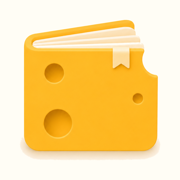
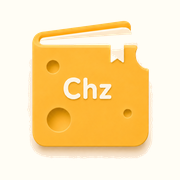
[CHMO-706] feat: 브랜드 로고 자산 최종본 교체 · 홈 워드마크만 Jua
디자인 최종본(Chz 각인 치즈 앨범)으로 자산 3종을 갈아끼운다 — CHMO-702가 넣은
자산은 각인 없는 이전 렌더였다. 경로·파일명·크기를 그대로 둬서 참조 코드는 무변경
(Cheddar 사용처 9곳·favicon·apple-touch-icon).

원본은 흰 여백 + 크림 라운드 타일 + 그림자가 구워진 목업이라, 채도·명도로 배경 후보를
잡고 **테두리에서 연결된 영역만** 지웠다 — 심볼 안쪽 크림(책장·Chz 각인·책갈피)은 갇혀
있어 살아남는다. 남은 타일 테두리 잔상은 중앙에서 연결된 덩어리만 취해 떨궜다.
사용자 지시대로 원본 PNG는 커밋하지 않는다.

apple-touch-icon만 크림 불투명 배경으로 굽는다 — iOS 홈 화면은 투명을 검정으로 깐다.

워드마크 '치즈모아'는 Jua로 되돌린다(CHMO-702의 Pretendard 전환에서 브랜드 표기까지
중립 산세리프가 됐다). 홈형 헤더가 title 없이 워드마크를 그릴 때만 적용 — title을 받은
경우는 화면 이름이라 본문 서체를 유지한다. Jua 요청은 이 한 곳 때문에 1건 늘어난다.

Changed region(s): [[0.1111, 0.1111, 0.8889, 0.8889], [0.2222, 0.5833, 0.4167, 0.7778]]

diff --git a/tailwind.config.js b/tailwind.config.js
@@ -50,6 +50,9 @@ export default {
         // Jua 시절 크기·자간·색으로 벌려 둔 위계(섹션 라벨 12px+자간 등)는 그대로 둔다 —
         // 굵기 축이 생겼다고 되돌릴 이유가 없고, 위계를 굵기로 다시 짜는 건 리디자인 본편 몫.
         sans: ['Pretendard Variable', 'Pretendard', 'system-ui', 'sans-serif'],
+        // 워드마크 전용(CHMO-706) — 헤더 '치즈모아' 한 곳에만 쓴다. 본문에 번지면 CHMO-702가
+        // 걷어낸 둥근 서체가 되살아나므로 사용처를 늘리지 않는다(Jua는 굵기 400 한 벌뿐).
+        logo: ['Jua', 'system-ui', 'sans-serif'],
         // 어드민 전용 중립 서체(CHMO-379) — 표·숫자 위주 화면이라 Jua(둥근 단일 굵기)가 아니라
         // 시스템 산세리프를 쓴다(굵기 위계 사용 가능 — 시스템 서체는 실제 볼드 파일이 있어
         // font-synthesis 차단과 무관하다). 추가 폰트 요청 0건.

diff --git a/index.html b/index.html
@@ -23,6 +23,11 @@
       rel="stylesheet"
       href="https://cdn.jsdelivr.net/gh/orioncactus/pretendard@v1.3.9/dist/web/variable/pretendardvariable-dynamic-subset.min.css"
     />
+    <link rel="preconnect" href="https://fonts.googleapis.com" />
+    <link rel="preconnect" href="https://fonts.gstatic.com" crossorigin />
+    <!-- Jua는 워드마크 '치즈모아' 한 곳 전용(CHMO-706) — 본문 서체를 Pretendard로 옮기면서
+         브랜드 표기까지 중립 산세리프가 돼 버려 로고 글자만 종전 얼굴로 되돌린다 -->
+    <link href="https://fonts.googleapis.com/css2?family=Jua&display=swap" rel="stylesheet" />
   </head>
   <body>
     <div id="root"></div>

diff --git a/src/components/ui/Header.tsx b/src/components/ui/Header.tsx
@@ -60,7 +60,10 @@ export function Header({ title, titleBadge, backTo, backLabel, backDisabled, onB
   return (
     <header className="flex h-[60px] shrink-0 items-center border-b border-border bg-cream px-3.5">
       <Cheddar size={34} />
-      <span className="ml-2 text-[22px] text-heading">{title ?? '치즈모아'}</span>
+      {/* 워드마크만 Jua(CHMO-706) — title을 받은 홈형은 화면 이름이라 본문 서체(Pretendard) 유지 */}
+      <span className={cx('ml-2 text-[22px] text-heading', !title && 'font-logo')}>
+        {title ?? '치즈모아'}
+      </span>
       <div className="ml-auto">{right}</div>
     </header>
   )
